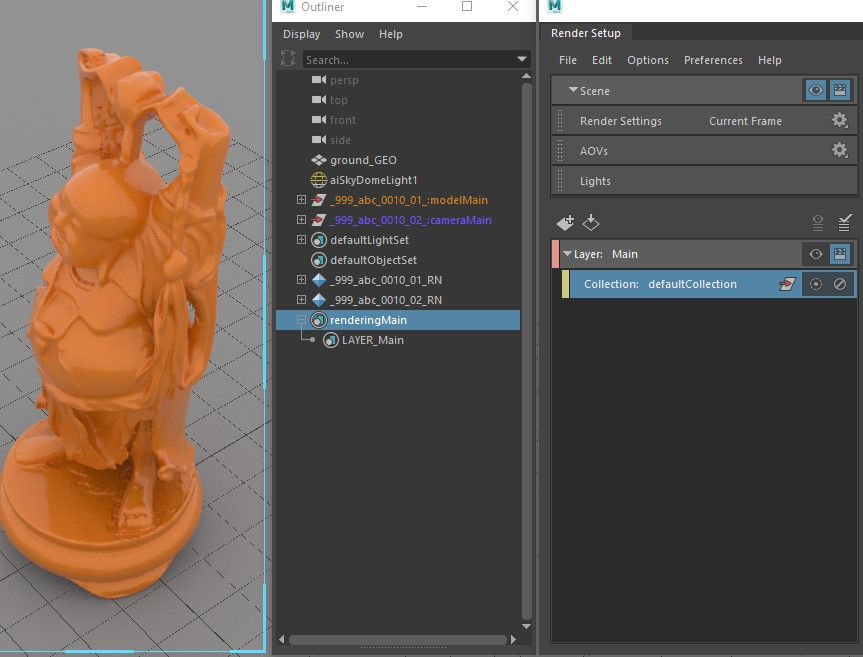
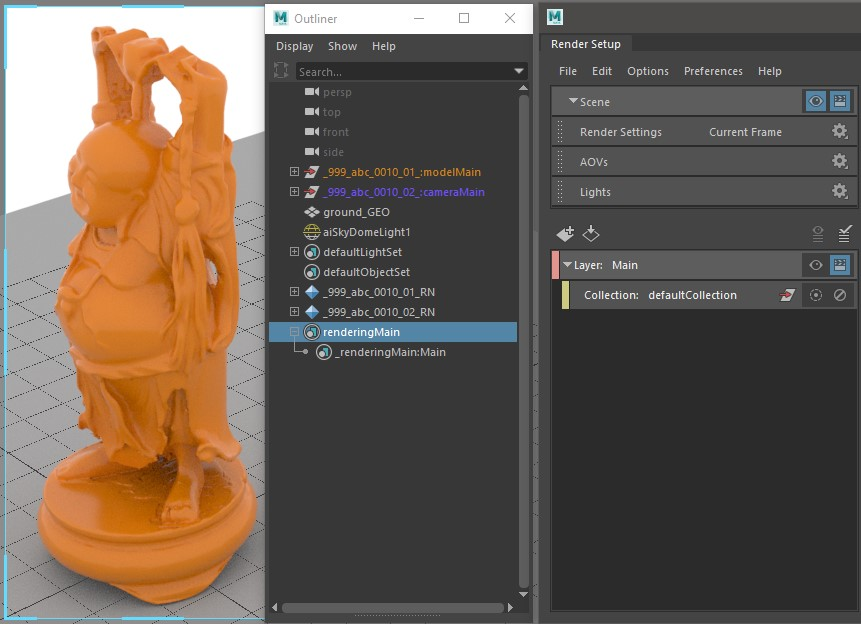
add documentation for vray stuff

diff --git a/website/docs/artist_hosts_maya.md b/website/docs/artist_hosts_maya.md
@@ -411,12 +411,12 @@ So now my scene now looks like this:
 
 ![Maya - Render scene Setup](assets/maya-render_setup.jpg)
 
-You can see that it created `renderingMain` set and under it `LAYER_Main`. This set corresponds to
+You can see that it created `renderingMain` set and under it `_renderingMain:Main`. This set corresponds to
 **Main** render layer in Render Setup. This was automatically created because I had not created any
 render layers in scene before. If you already have layers and you use **Use selection**, they will
-appear here, prefixed with `LAYER_`. Those layer set are created whenever you create new layer in
-Render Setup and are deleted if you delete layer in Render Setup. However if you delete `LAYER_` set,
-layer in Render Setup isn't deleted. It just means it won't be published.
+appear here, prefixed with `_renderingMain` namespace (or similar - how you name your rendering instance).
+Those layer set are created whenever you create new layer in Render Setup and are deleted if you delete layer
+in Render Setup. However if you delete layer set, layer in Render Setup isn't deleted. It just means it won't be published.
 
 Creating *Render instance* will also set image prefix in render settings to Pype defaults based on
 renderer you use - for example if you render with Arnold, it is `maya/<Scene>/<RenderLayer>/<RenderLayer>_<RenderPass>`.
@@ -691,3 +691,27 @@ under selected hierarchies and match them with shapes loaded with rig (published
 under `input_SET`). This mechanism uses *cbId* attribute on those shapes.
 If match is found shapes are connected using their `outMesh` and `outMesh`. Thus you can easily connect existing animation to loaded rig.
 :::
+
+## Using V-Ray
+
+V-Ray is supported by Pype in similar way as Arnold is. Rendering works the same, but it is adding support
+for publishing **V-Ray Scenes** and **V-Ray Proxies**.
+
+### Publishing V-Ray Scenes
+
+Publishing scenes works in same way as publishing renders. For every render layer there is a set under
+V-Ray scene instance.
+
+If this set is empty, it will export whole scene in the context of render layer. If you put objects there,
+only those objects will be exported.
+
+![Maya - V-Ray Scene Setup](assets/maya-vrayscene-publishing.jpg)
+
+In this case there are two render layers - `Main` and `Ground`. Publishing this V-Ray scene instance
+will result in two scenes, one from `Main` containing whole scene and `Ground` containing only **ground_GEO**.
+
+### Publishing V-Ray proxy
+
+Publishing V-Ray proxies is straightforward and work like publishing models. Select your geometry, then
+**Pype → Create...** and select **VRay Proxy**. Make sure **Use selected** is checked to automatically put
+selected geometry to instance.
